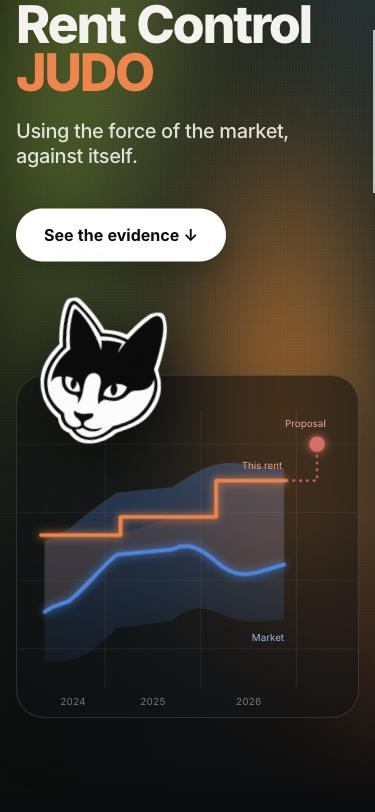
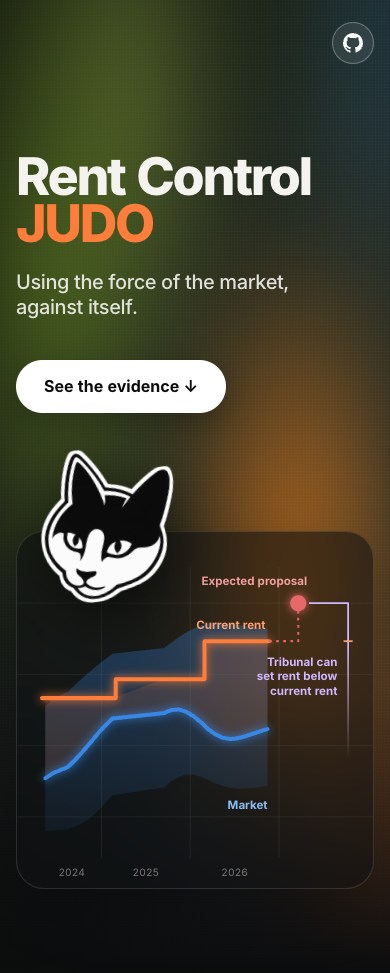
Show possible tribunal rents in the hero

diff --git a/public_page.py b/public_page.py
@@ -267,7 +267,7 @@ html{scroll-behavior:smooth}
   background:rgba(12,14,16,.58);border:1px solid rgba(255,255,255,.12);backdrop-filter:blur(14px);
   box-shadow:0 30px 80px rgba(0,0,0,.45);overflow:hidden}
 .jd-card svg{position:absolute;inset:0;width:100%;height:100%}
-.jd-cat{position:absolute;left:1%;top:-27%;width:50%;transform:rotate(-8deg);pointer-events:none;
+.jd-cat{position:absolute;left:1%;top:-22%;width:42%;transform:rotate(-8deg);pointer-events:none;
   filter:drop-shadow(3px 0 0 #fff) drop-shadow(-3px 0 0 #fff) drop-shadow(0 3px 0 #fff) drop-shadow(0 -3px 0 #fff) drop-shadow(0 18px 28px rgba(0,0,0,.55))}
 .jd-down{position:absolute;left:50%;bottom:20px;transform:translateX(-50%);display:flex;flex-direction:column;align-items:center;gap:4px;color:rgba(244,243,239,.7);text-decoration:none;font-size:11px;font-weight:600;letter-spacing:.16em;text-transform:uppercase}
 .jd-down svg{animation:jdBob 2.2s ease-in-out infinite}
@@ -301,7 +301,7 @@ html{scroll-behavior:smooth}
       <p class="jd-tag">Using the force of the market, against itself.</p>
       <div class="jd-ctas"><a class="jd-pill" href="#evidence">See the evidence ↓</a></div>
     </div>
-    <div class="jd-art" aria-hidden="true">
+    <div class="jd-art">
       <div class="jd-card"><svg id="jd-chart" viewBox="0 0 400 400"></svg></div>
       <img class="jd-cat" src="logo-512.png" alt="">
     </div>
@@ -360,10 +360,11 @@ html{scroll-behavior:smooth}
       <p class="cap">An open-source pipeline runs every morning. Private evidence never leaves the tenant's computer.</p>
       <div class="steps" id="steps"></div>
       <a class="btn" id="repo" href="#" rel="noopener">View the code on GitHub →</a>
+      <p class="cap">Data from OpenRent, ONS (Open Government Licence), the GOV.UK EPC register and © OpenStreetMap contributors.</p>
     </section>
   </div>
 
-  <footer id="foot"></footer>
+  <footer>This example is based on a real case and uses real rental data. Rents and tribunal outcomes vary from case to case.</footer>
 </main>
 <div id="tip" role="status" aria-live="polite"></div>
 <script>
@@ -423,8 +424,6 @@ function header() {
   const st = $("#steps"); st.innerHTML = ""; steps.forEach(([a, b], i) => { const d = document.createElement("span"); d.className = "step";
     const x = document.createElement("b"); x.textContent = `${i + 1}. ${a}`; d.append(x, b); st.appendChild(d); });
   if (D.repo) $("#repo").href = D.repo; else $("#repo").style.display = "none";
-  $("#foot").innerHTML = "";
-  $("#foot").append(`Example: ${D.description}. Tenant's rents rounded to £${D.roundedTo}. Market rate = median of ${D.points.length} comparable agreed lets, adjusted to this neighbourhood (ONS small-area prices) and to today (ONS rent index); the cautious similar-flat estimate is ${gbp(D.market.est)}. Sources: OpenRent; ONS (Open Government Licence); GOV.UK EPC register; © OpenStreetMap contributors. Not legal advice. `);
 }
 
 function heroBar() {
@@ -600,15 +599,19 @@ function byKm() {
 
 function judo() {
   const gh = $("#jd-gh"); if (D.repo) gh.href = D.repo; else gh.remove();
-  // The card's chart, over time to the expected proposal: the market's middle half (blue band) and median (blue line),
-  // this rent (orange steps) above it with the gap shaded, then a red dashed step up to the proposal (red dot).
   const svg = $("#jd-chart"); svg.innerHTML = "";
   const S = 400, T = D.trend; if (!T.length || !D.history.length) return;
   const smooth = key => T.map((_, i) => { let a = 0, b = 0; T.forEach((v, j) => { const k = Math.exp(-(((i - j) / 3.5) ** 2) / 2) * v.n; a += k * v[key]; b += k; }); return a / b; });
   const md = smooth("med"), q1 = smooth("q1"), q3 = smooth("q3");
   const pm = D.proposed ? (D.proposed[0] + D.proposed[1]) / 2 : null;
+  const showTribunalRange = pm !== null && pm > D.rent;
+  svg.setAttribute("role", "img");
+  svg.setAttribute("aria-label", "Rent history and comparable agreed rents over time." + (pm === null ? "" :
+    ` The expected landlord proposal is ${gbp(pm)} a month.`) + (showTribunalRange ?
+    " The proposal caps the tribunal rent, which can fall below the current rent." : ""));
   const t0 = +new Date(T[0].m + "-01"), t1 = Date.now(), tp = t1 + 120 * 864e5;     // proposal shown ~4 months on
-  const xL = S * .07, xP = S * .88, x = t => xL + (t - t0) / (tp - t0) * (xP - xL);
+  const xL = S * .07, xP = S * .79;
+  const x = t => xL + (t - t0) / (tp - t0) * (xP - xL);
   const vals = q1.concat(q3, D.history.map(h => h.rent), pm ? [pm] : []);
   const lo = Math.min(...vals), hi = Math.max(...vals), y = v => S * .84 - (v - lo) / (hi - lo) * S * .64;
   const rentAt = t => { let r = D.history[0].rent; D.history.forEach(h => { if (+new Date(h.from + "-01") <= t) r = h.rent; }); return r; };
@@ -633,14 +636,25 @@ function judo() {
   D.history.forEach(h => { const t = +new Date(h.from + "-01"); if (t > t0 && t < t1) r += `L${x(t)},${y(rentAt(t - 1))}L${x(t)},${y(h.rent)}`; });
   r += `L${x(t1)},${y(rentAt(t1))}`;
   el("path", {d: r, fill: "none", stroke: "#ff7d3b", "stroke-width": 4.5, filter: "url(#jdglow)", "stroke-linejoin": "round", "stroke-linecap": "round", pathLength: 1, class: "jd-draw"}, svg);
-  const lab = (x0, y0, t, c, a = "end") => { const e = tx(svg, x0, y0, t, "jd-lab", a); e.style.fill = c; e.setAttribute("font-size", 16); e.setAttribute("font-weight", 650); };
-  if (pm) {
+  const lab = (x0, y0, t, c) => { const e = tx(svg, x0, y0, t, "jd-lab", "end"); e.style.fill = c; e.style.fontSize = "13px"; e.style.fontWeight = 650; };
+  if (pm !== null) {
     el("path", {d: `M${x(t1)},${y(rentAt(t1))}L${xP},${y(rentAt(t1))}L${xP},${y(pm)}`, fill: "none", stroke: "#e66767", "stroke-width": 2.5, "stroke-dasharray": "3 5", class: "jd-late"}, svg);
     el("circle", {cx: xP, cy: y(pm), r: 9, fill: "none", stroke: "#e66767", "stroke-width": 2, class: "jd-pulse"}, svg);
     el("circle", {cx: xP, cy: y(pm), r: 9, fill: "#e66767", filter: "url(#jdglow)", class: "jd-late"}, svg);
-    lab(xP + 10, y(pm) - 20, "Proposal", "#f3a0a0");
+    lab(xP + 10, y(pm) - 20, "Expected proposal", "#f3a0a0");
   }
-  lab(x(t1) - 4, y(rentAt(t1)) - 14, "This rent", "#ffa070");
+  if (showTribunalRange) {
+    const bracketX = S * .93, currentY = y(D.rent), endY = Math.min(S * .89, currentY + 132);
+    const colour = "#d0b8ff";
+    const fade = el("linearGradient", {id: "jdTribunalFade", gradientUnits: "userSpaceOnUse", x1: 0, x2: 0, y1: currentY, y2: endY}, defs);
+    el("stop", {offset: 0, "stop-color": colour}, fade);
+    el("stop", {offset: 1, "stop-color": colour, "stop-opacity": 0}, fade);
+    el("path", {d: `M${xP + 12},${y(pm)}H${bracketX}V${endY}`, fill: "none", stroke: "url(#jdTribunalFade)", "stroke-width": 2, "stroke-linejoin": "round", class: "jd-late"}, svg);
+    el("line", {x1: bracketX - 5, x2: bracketX + 5, y1: currentY, y2: currentY, stroke: "#ffa070", "stroke-width": 2, class: "jd-late"}, svg);
+    const labelY = Math.min(currentY + 28, S * .77);
+    ["Tribunal can", "set rent below", "current rent"].forEach((text, i) => lab(bracketX - 12, labelY + i * 16, text, colour));
+  }
+  lab(x(t1) - 4, y(rentAt(t1)) - 14, "Current rent", "#ffa070");
   lab(x(ts[ts.length - 1]), y(q1[q1.length - 1]) + 26, "Market", "#8dbcf3");
 }
 

diff --git a/README.md b/README.md
@@ -11,14 +11,16 @@
 <p align="center"><a href="https://rent-evidence-demo.pages.dev"><b>Live demo →</b></a></p>
 
 <p align="center">
-  <a href="https://rent-evidence-demo.pages.dev"><img src="docs/screenshots/hero-dark.jpg" width="820" alt="Rent Control JUDO: the cat mascot perched on a glowing chart over time, the example rent above the market and the expected proposal as a red dot"></a>
+  <a href="https://rent-evidence-demo.pages.dev"><img src="docs/screenshots/hero-dark.jpg" width="820" alt="Rent Control JUDO with a cat mascot above a chart and a fading bracket from the landlord’s expected proposal to below the current rent"></a>
 </p>
 
 Since 1 May 2026 (the Renters' Rights Act 2025), a private landlord in England can only raise the rent with a
 Section 13 notice (Form 4A), and the tenant can ask the First-tier Tribunal (Property Chamber) to decide the
-open-market rent. The tribunal can't set more than the landlord proposed, and if it decides after the notice's
-start date the new rent isn't backdated. What wins these cases is good evidence: comparable lets that really
-are comparable, adjusted openly, and dated proof of the flat's condition.
+open-market rent. The landlord's proposal caps the new rent, and the tribunal can set it below the current rent.
+If it decides after the notice's start date, the new rent isn't backdated. [HM Courts & Tribunals Service guidance](https://www.gov.uk/guidance/apply-for-an-open-market-rent-determination) · [Example of a decision below the existing rent](https://assets.publishing.service.gov.uk/media/6aeb50fec3f85a848b0bcb89/261030_Panel_Decision.pdf)
+
+What wins these cases is good evidence: comparable lets that really are comparable, adjusted openly, and dated
+proof of the flat's condition.
 
 This project builds that evidence for one flat, keeps it up to date every morning, and publishes an anonymised
 copy so others can see how it works.
@@ -27,8 +29,9 @@ copy so others can see how it works.
 
 ## The public dashboard
 
-A full-screen opening section (the cat mascot perched on a live chart: the market's middle half and median, the
-example rent above it, the expected proposal a red dot at the top right) scrolls smoothly down to the evidence: one number up front (how far the rent sits above the local median), three headline figures (live listings,
+A full-screen opening section shows the cat mascot perched on a chart of the local market and the example rent.
+A red dot marks the landlord's expected proposal. A lavender bracket runs down from the proposal and fades below
+the current rent to show that the tribunal can set a lower rent. The page scrolls smoothly down to the evidence: one number up front (how far the rent sits above the local median), three headline figures (live listings,
 agreed lets analysed, recent comparables), and four charts: how many recent lets were cheaper, a grid showing
 the rent above the median at every distance and period (the group behind the headline outlined), agreed rents
 over time against the official ONS average, and every let by distance. Hover anything for the figures behind it.
@@ -39,9 +42,9 @@ It follows the viewer's light or dark setting and works on a phone.
 </p>
 
 <p align="center">
-  <img src="docs/screenshots/charts-light.jpg" width="560" alt="Light mode: agreed rents over time, and agreed rents by distance with the example rent marked">
+  <img src="docs/screenshots/charts-light.jpg" width="510" alt="Light mode: agreed rents over time, and agreed rents by distance with the example rent marked">
   &nbsp;
-  <img src="docs/screenshots/mobile-dark.jpg" width="230" alt="Phone view of the opening section in dark mode">
+  <img src="docs/screenshots/mobile-dark.jpg" width="280" alt="Phone view of the hero chart with a bracket showing that the tribunal can set rent below the current rent">
 </p>
 
 The full working (evidence log, every adjustment line by line, tribunal decisions, a spreadsheet laid out for the
